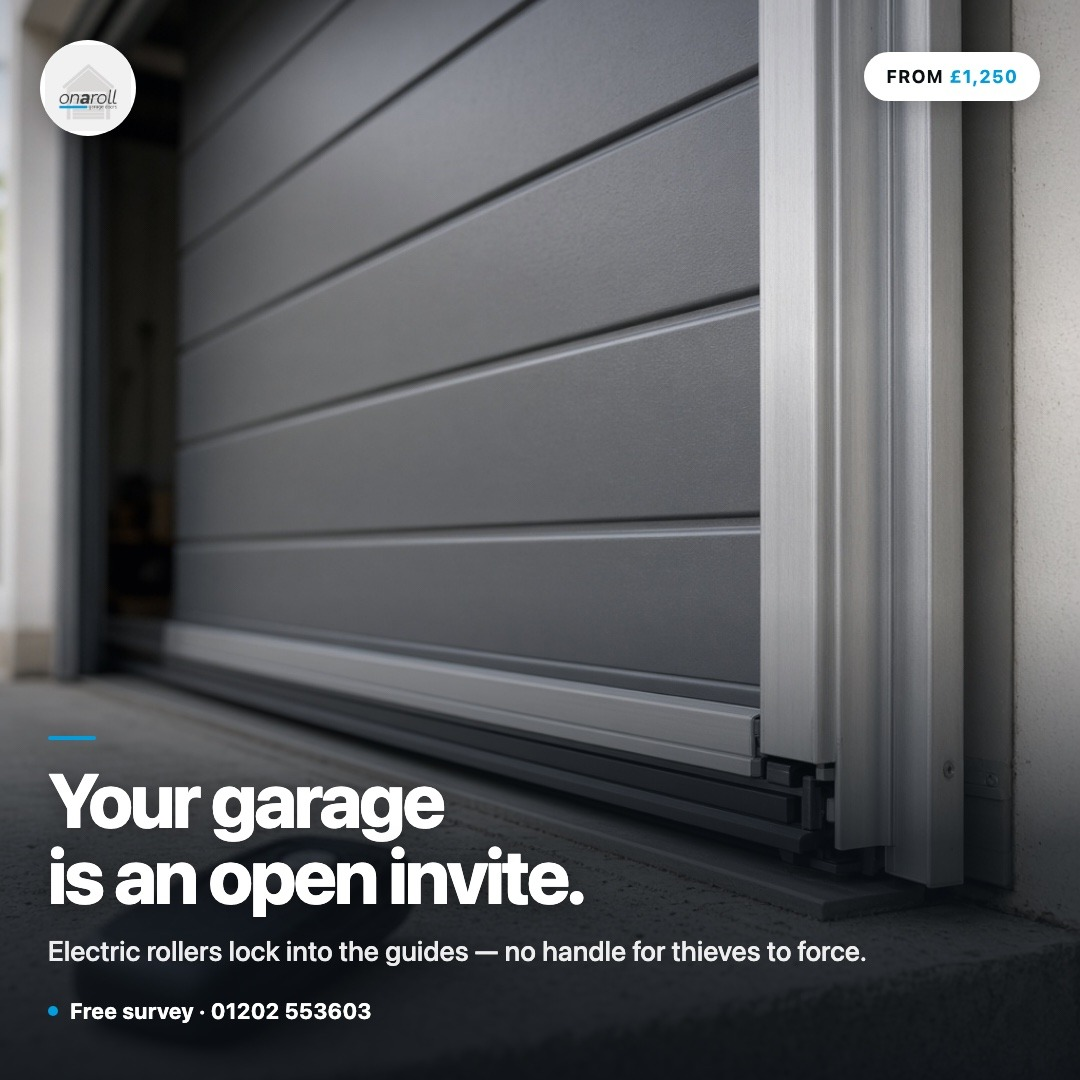
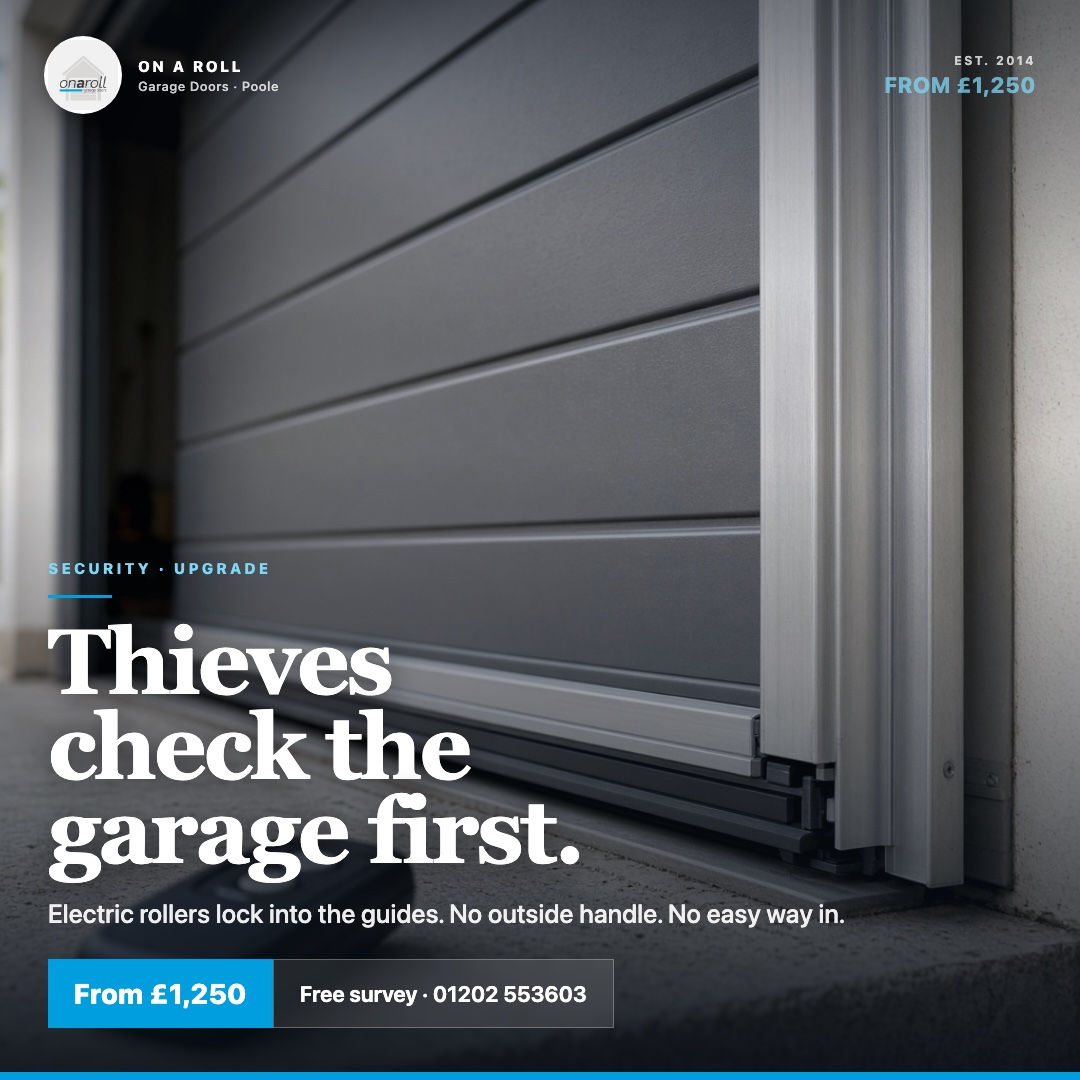
Magazine-style punchy creatives + updated FB previews

diff --git a/APPROVAL-BOARD.html b/APPROVAL-BOARD.html
@@ -4,7 +4,7 @@
   <meta charset="utf-8" />
   <meta name="viewport" content="width=device-width, initial-scale=1" />
   <meta http-equiv="Cache-Control" content="no-cache, no-store, must-revalidate" />
-  <title>On A Roll — Modern posts + Facebook preview</title>
+  <title>On A Roll — Magazine posts for approval</title>
   <style>
     :root{--ink:#0b1c28;--muted:#3a4652;--line:#cfd8e1;--paper:#eef2f5;--card:#ffffff;--blue:#009edf}
     *{box-sizing:border-box} body{margin:0;font-family:-apple-system,BlinkMacSystemFont,"Segoe UI",Helvetica,Arial,sans-serif;background:var(--paper);color:var(--ink);line-height:1.45}
@@ -12,7 +12,7 @@
     header{background:var(--ink);color:#fff;padding:2rem 1.4rem 1.7rem}
     .eyebrow{letter-spacing:.14em;text-transform:uppercase;font-size:.7rem;opacity:.85;margin:0 0 .55rem;color:#d7eaf5}
     h1{margin:0;font-size:clamp(1.55rem,3vw,2rem);font-weight:720;letter-spacing:-.02em}
-    header p{margin:.7rem 0 0;max-width:40rem;opacity:.9}
+    header p{margin:.7rem 0 0;max-width:42rem;opacity:.9}
     .wrap{max-width:1120px;margin:0 auto;padding:1.4rem}
     h2{font-size:1.15rem;margin:1.8rem 0 .9rem}
     .grid{display:grid;gap:1rem}
@@ -25,28 +25,28 @@
     .fb img{width:100%;border-radius:10px;display:block;box-shadow:0 6px 18px rgba(0,0,0,.08)}
     .note{color:var(--muted);font-size:.88rem;margin:.55rem 0 0}
     footer{margin:2rem 0 3rem;color:var(--muted);font-size:.9rem}
+    a{color:#0077a8}
   </style>
 </head>
 <body>
-  <div class="banner">UPDATED — Modern creatives + Facebook feed previews (Batch 1)</div>
+  <div class="banner">MAGAZINE STYLE — Punchier creatives + Facebook previews</div>
   <header>
     <p class="eyebrow">On A Roll Garage Doors</p>
-    <h1>Modern posts + how they’ll look on Facebook</h1>
-    <p>Hi Jon — section 1 is the image we’d upload. Section 2 simulates the Facebook post (profile, caption, image, Like / Comment / Share). Tell Pete Approve / Edit / Reject for each.</p>
+    <h1>Magazine-style posts for your OK</h1>
+    <p>Hi Jon — bold editorial creatives (logo + From £1,250). Section 2 shows how each should look on Facebook. Reply Approve / Edit / Reject.</p>
   </header>
   <div class="wrap">
-    <h2>1 · Modern branded images</h2>
+    <h2>1 · Magazine creatives</h2>
     <div class="grid grid-3">
-      <div class="card"><img src="creative-001.jpg" alt=""><div class="pad"><div class="id">OAR-SM-001 · Mon</div><strong>Stop living with that door.</strong><p class="note">From £1,250 · Free survey</p></div></div>
-      <div class="card"><img src="creative-002.jpg" alt=""><div class="pad"><div class="id">OAR-SM-002 · Wed</div><strong>Your garage is an open invite.</strong><p class="note">From £1,250 · Security hook</p></div></div>
-      <div class="card"><img src="creative-003.jpg" alt=""><div class="pad"><div class="id">OAR-SM-003 · Fri</div><strong>Don’t overpay for a garage door.</strong><p class="note">From £1,250 · Local fitters</p></div></div>
+      <div class="card"><img src="mag-001.jpg" alt=""><div class="pad"><div class="id">OAR-SM-001 · Mon</div><strong>That door has had its day.</strong><p class="note">From £1,250 · Free survey</p></div></div>
+      <div class="card"><img src="mag-002.jpg" alt=""><div class="pad"><div class="id">OAR-SM-002 · Wed</div><strong>Thieves check the garage first.</strong><p class="note">From £1,250 · Security</p></div></div>
+      <div class="card"><img src="mag-003.jpg" alt=""><div class="pad"><div class="id">OAR-SM-003 · Fri</div><strong>A better door. A fair price.</strong><p class="note">From £1,250 · Local / honest</p></div></div>
     </div>
-
     <h2>2 · Facebook feed simulation</h2>
     <div class="grid grid-3">
-      <div class="fb"><img src="facebook-preview-001.jpg" alt="Facebook preview 1"><p class="note">Preview of post 001 on Facebook</p></div>
-      <div class="fb"><img src="facebook-preview-002.jpg" alt="Facebook preview 2"><p class="note">Preview of post 002 on Facebook</p></div>
-      <div class="fb"><img src="facebook-preview-003.jpg" alt="Facebook preview 3"><p class="note">Preview of post 003 on Facebook</p></div>
+      <div class="fb"><img src="fb-mag-001.jpg" alt=""><p class="note">Facebook preview · 001</p></div>
+      <div class="fb"><img src="fb-mag-002.jpg" alt=""><p class="note">Facebook preview · 002</p></div>
+      <div class="fb"><img src="fb-mag-003.jpg" alt=""><p class="note">Facebook preview · 003</p></div>
     </div>
     <footer>Repo: <a href="https://github.com/four2d/onaroll-garage-doors">github.com/four2d/onaroll-garage-doors</a></footer>
   </div>

diff --git a/index.html b/index.html
@@ -4,7 +4,7 @@
   <meta charset="utf-8" />
   <meta name="viewport" content="width=device-width, initial-scale=1" />
   <meta http-equiv="Cache-Control" content="no-cache, no-store, must-revalidate" />
-  <title>On A Roll — Modern posts + Facebook preview</title>
+  <title>On A Roll — Magazine posts for approval</title>
   <style>
     :root{--ink:#0b1c28;--muted:#3a4652;--line:#cfd8e1;--paper:#eef2f5;--card:#ffffff;--blue:#009edf}
     *{box-sizing:border-box} body{margin:0;font-family:-apple-system,BlinkMacSystemFont,"Segoe UI",Helvetica,Arial,sans-serif;background:var(--paper);color:var(--ink);line-height:1.45}
@@ -12,7 +12,7 @@
     header{background:var(--ink);color:#fff;padding:2rem 1.4rem 1.7rem}
     .eyebrow{letter-spacing:.14em;text-transform:uppercase;font-size:.7rem;opacity:.85;margin:0 0 .55rem;color:#d7eaf5}
     h1{margin:0;font-size:clamp(1.55rem,3vw,2rem);font-weight:720;letter-spacing:-.02em}
-    header p{margin:.7rem 0 0;max-width:40rem;opacity:.9}
+    header p{margin:.7rem 0 0;max-width:42rem;opacity:.9}
     .wrap{max-width:1120px;margin:0 auto;padding:1.4rem}
     h2{font-size:1.15rem;margin:1.8rem 0 .9rem}
     .grid{display:grid;gap:1rem}
@@ -25,28 +25,28 @@
     .fb img{width:100%;border-radius:10px;display:block;box-shadow:0 6px 18px rgba(0,0,0,.08)}
     .note{color:var(--muted);font-size:.88rem;margin:.55rem 0 0}
     footer{margin:2rem 0 3rem;color:var(--muted);font-size:.9rem}
+    a{color:#0077a8}
   </style>
 </head>
 <body>
-  <div class="banner">UPDATED — Modern creatives + Facebook feed previews (Batch 1)</div>
+  <div class="banner">MAGAZINE STYLE — Punchier creatives + Facebook previews</div>
   <header>
     <p class="eyebrow">On A Roll Garage Doors</p>
-    <h1>Modern posts + how they’ll look on Facebook</h1>
-    <p>Hi Jon — section 1 is the image we’d upload. Section 2 simulates the Facebook post (profile, caption, image, Like / Comment / Share). Tell Pete Approve / Edit / Reject for each.</p>
+    <h1>Magazine-style posts for your OK</h1>
+    <p>Hi Jon — bold editorial creatives (logo + From £1,250). Section 2 shows how each should look on Facebook. Reply Approve / Edit / Reject.</p>
   </header>
   <div class="wrap">
-    <h2>1 · Modern branded images</h2>
+    <h2>1 · Magazine creatives</h2>
     <div class="grid grid-3">
-      <div class="card"><img src="creative-001.jpg" alt=""><div class="pad"><div class="id">OAR-SM-001 · Mon</div><strong>Stop living with that door.</strong><p class="note">From £1,250 · Free survey</p></div></div>
-      <div class="card"><img src="creative-002.jpg" alt=""><div class="pad"><div class="id">OAR-SM-002 · Wed</div><strong>Your garage is an open invite.</strong><p class="note">From £1,250 · Security hook</p></div></div>
-      <div class="card"><img src="creative-003.jpg" alt=""><div class="pad"><div class="id">OAR-SM-003 · Fri</div><strong>Don’t overpay for a garage door.</strong><p class="note">From £1,250 · Local fitters</p></div></div>
+      <div class="card"><img src="mag-001.jpg" alt=""><div class="pad"><div class="id">OAR-SM-001 · Mon</div><strong>That door has had its day.</strong><p class="note">From £1,250 · Free survey</p></div></div>
+      <div class="card"><img src="mag-002.jpg" alt=""><div class="pad"><div class="id">OAR-SM-002 · Wed</div><strong>Thieves check the garage first.</strong><p class="note">From £1,250 · Security</p></div></div>
+      <div class="card"><img src="mag-003.jpg" alt=""><div class="pad"><div class="id">OAR-SM-003 · Fri</div><strong>A better door. A fair price.</strong><p class="note">From £1,250 · Local / honest</p></div></div>
     </div>
-
     <h2>2 · Facebook feed simulation</h2>
     <div class="grid grid-3">
-      <div class="fb"><img src="facebook-preview-001.jpg" alt="Facebook preview 1"><p class="note">Preview of post 001 on Facebook</p></div>
-      <div class="fb"><img src="facebook-preview-002.jpg" alt="Facebook preview 2"><p class="note">Preview of post 002 on Facebook</p></div>
-      <div class="fb"><img src="facebook-preview-003.jpg" alt="Facebook preview 3"><p class="note">Preview of post 003 on Facebook</p></div>
+      <div class="fb"><img src="fb-mag-001.jpg" alt=""><p class="note">Facebook preview · 001</p></div>
+      <div class="fb"><img src="fb-mag-002.jpg" alt=""><p class="note">Facebook preview · 002</p></div>
+      <div class="fb"><img src="fb-mag-003.jpg" alt=""><p class="note">Facebook preview · 003</p></div>
     </div>
     <footer>Repo: <a href="https://github.com/four2d/onaroll-garage-doors">github.com/four2d/onaroll-garage-doors</a></footer>
   </div>
